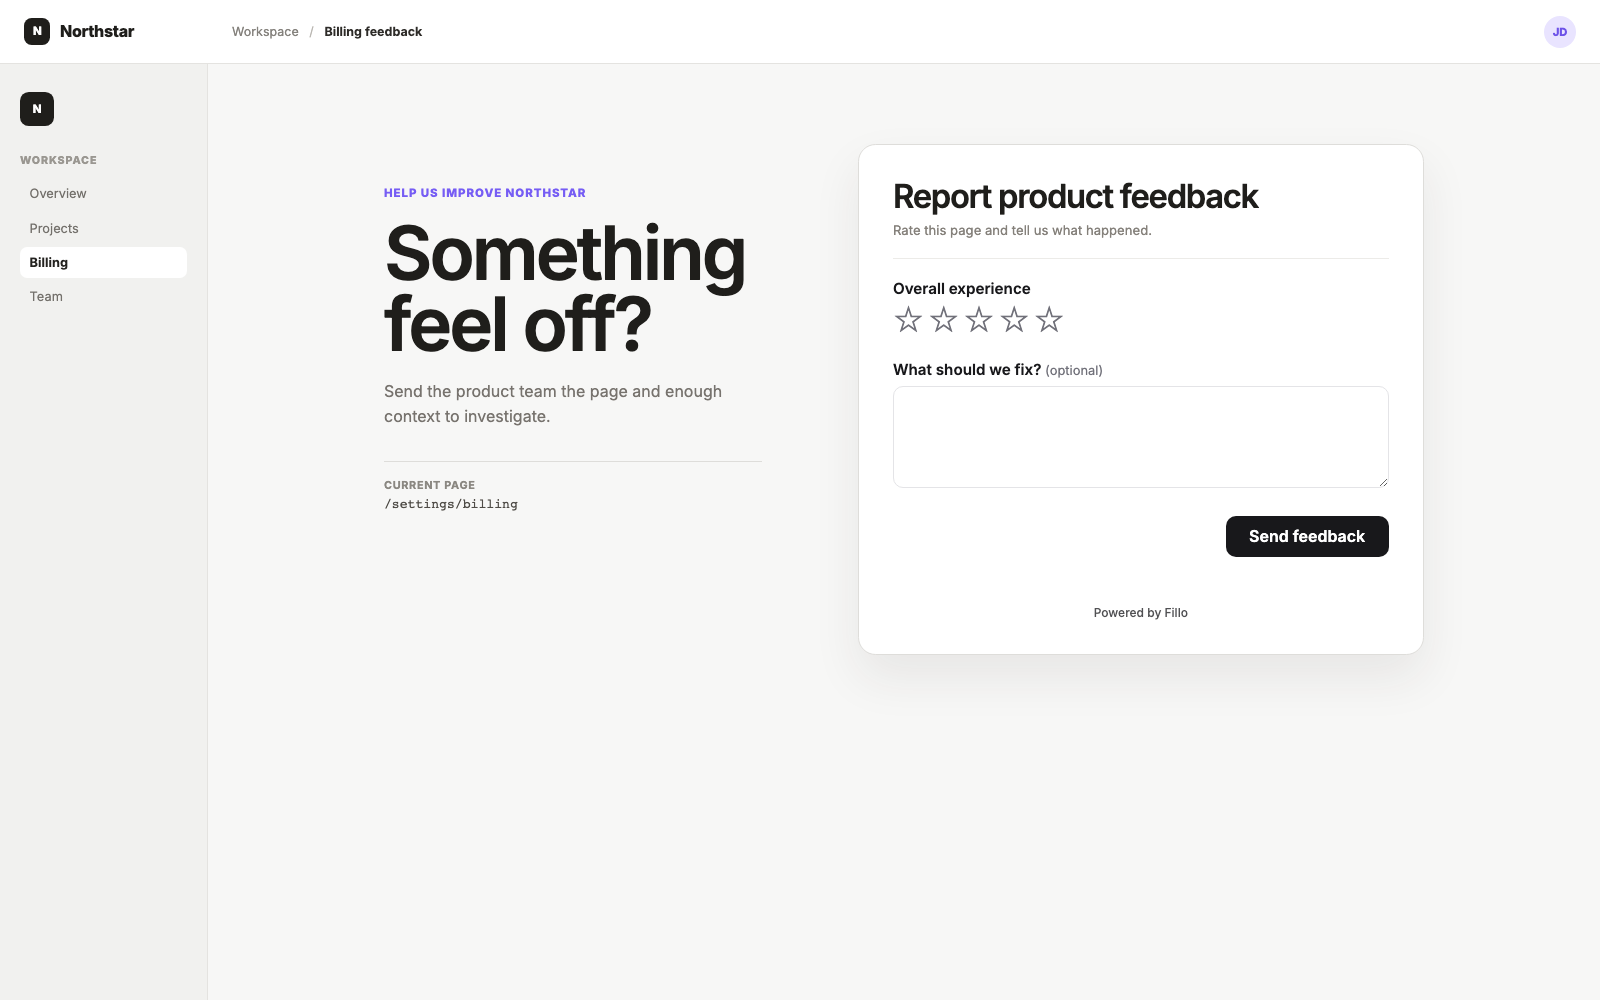
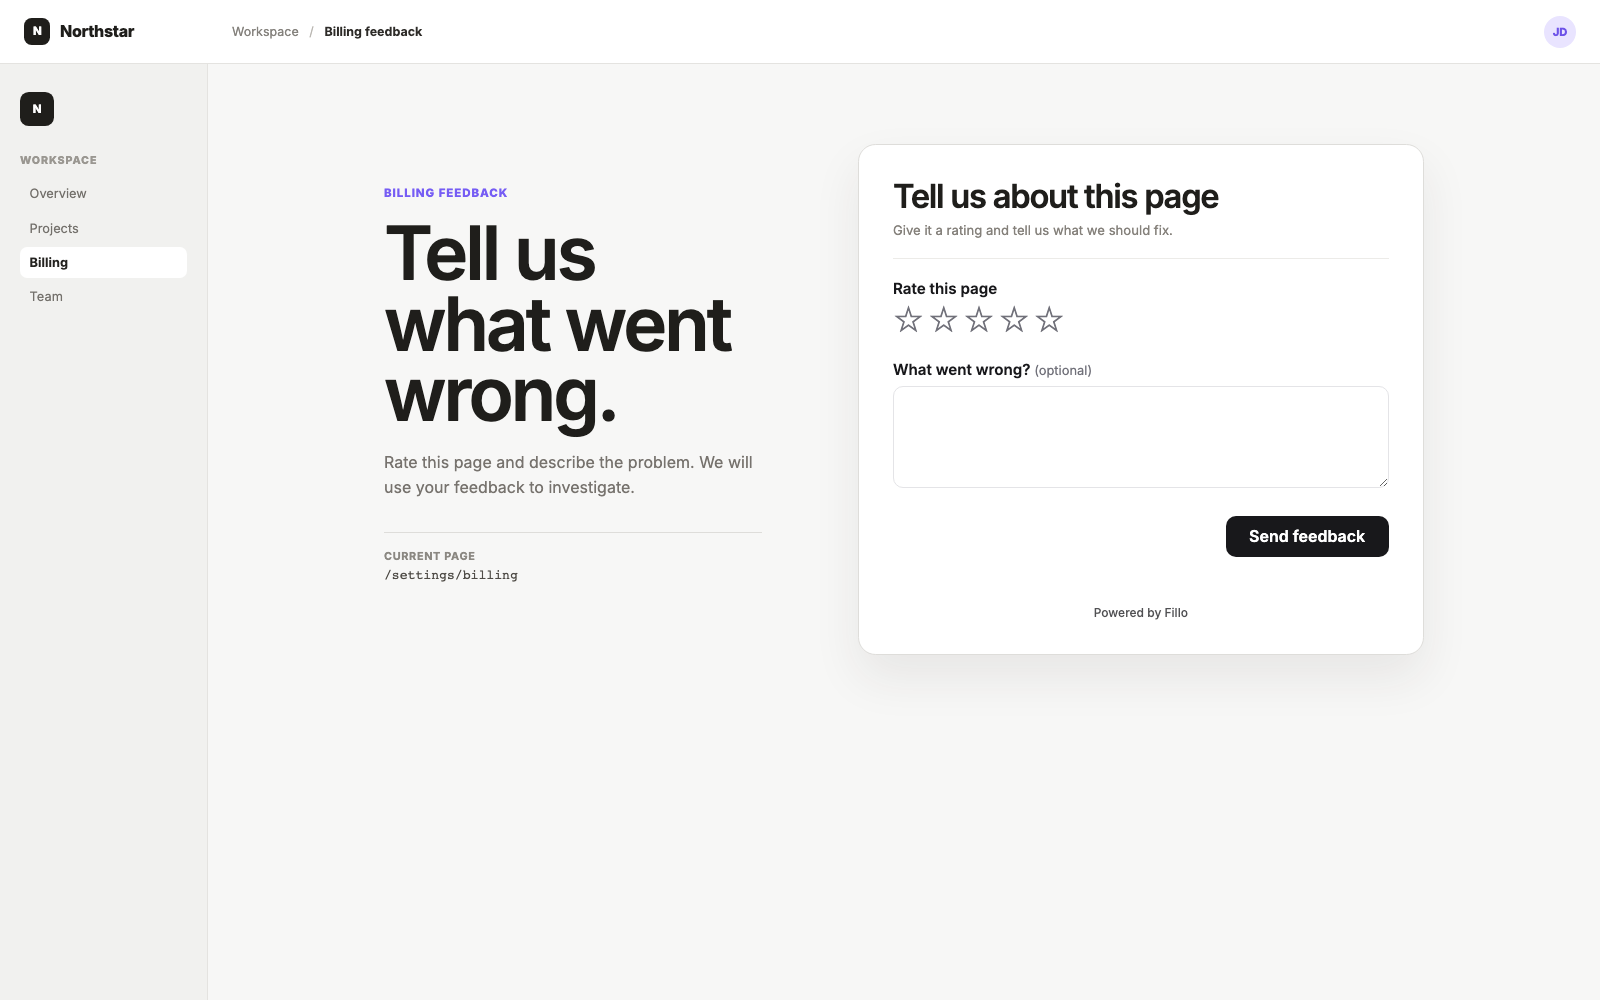
Rewrite starter copy in plain English (#2)

diff --git a/app/FeedbackCard.tsx b/app/FeedbackCard.tsx
@@ -10,8 +10,8 @@ export function FeedbackCard() {
     <section id="feedback" className="feedback-card" aria-labelledby="feedback-title">
       <div className="feedback-heading">
         <div>
-          <h2 id="feedback-title">Report product feedback</h2>
-          <p>Rate this page and tell us what happened.</p>
+          <h2 id="feedback-title">Tell us about this page</h2>
+          <p>Give it a rating and tell us what we should fix.</p>
         </div>
       </div>
 
@@ -19,7 +19,8 @@ export function FeedbackCard() {
         <aside className="setup" role="status">
           <strong>Preview mode</strong>
           <span>
-            Add <code>NEXT_PUBLIC_FILLO_KEY</code> to sync this form and collect a response.
+            Add <code>NEXT_PUBLIC_FILLO_KEY</code> to connect this form to Fillo. You can then
+            collect responses.
           </span>
         </aside>
       ) : null}
@@ -32,8 +33,8 @@ export function FeedbackCard() {
           settings={{ submitLabel: "Send feedback" }}
           showTitle={false}
         >
-          <Fillo.Rating id="score" label="Overall experience" max={5} required />
-          <Fillo.LongText id="note" label="What should we fix?" />
+          <Fillo.Rating id="score" label="Rate this page" max={5} required />
+          <Fillo.LongText id="note" label="What went wrong?" />
         </Fillo.Form>
       ) : (
         <Fillo.Form
@@ -42,9 +43,18 @@ export function FeedbackCard() {
           settings={{ submitLabel: "Send feedback" }}
           showTitle={false}
           renderOnly
+          renderSuccess={() => (
+            <div className="preview-success">
+              <span aria-hidden="true">✓</span>
+              <h3>Preview finished</h3>
+              <p>
+                We did not send or save your feedback. Add a publishable key to collect responses.
+              </p>
+            </div>
+          )}
         >
-          <Fillo.Rating id="score" label="Overall experience" max={5} required />
-          <Fillo.LongText id="note" label="What should we fix?" />
+          <Fillo.Rating id="score" label="Rate this page" max={5} required />
+          <Fillo.LongText id="note" label="What went wrong?" />
         </Fillo.Form>
       )}
     </section>

diff --git a/app/page.tsx b/app/page.tsx
@@ -13,7 +13,7 @@ export default function Page() {
         <p className="breadcrumb">
           Workspace <span>/</span> <strong>Billing feedback</strong>
         </p>
-        <span className="avatar" aria-label="Signed in as Jamie Diaz">
+        <span className="avatar" role="img" aria-label="Signed in as Jamie Diaz">
           JD
         </span>
       </header>
@@ -32,9 +32,11 @@ export default function Page() {
 
         <section className="product-route">
           <div className="product-copy">
-            <p className="eyebrow">Help us improve Northstar</p>
-            <h1>Something feel off?</h1>
-            <p>Send the product team the page and enough context to investigate.</p>
+            <p className="eyebrow">Billing feedback</p>
+            <h1>Tell us what went wrong.</h1>
+            <p>
+              Rate this page and describe the problem. We will use your feedback to investigate.
+            </p>
             <div className="page-context">
               <span>Current page</span>
               <code>/settings/billing</code>

diff --git a/app/layout.tsx b/app/layout.tsx
@@ -4,8 +4,8 @@ import type { Metadata } from "next";
 import type { ReactNode } from "react";
 
 export const metadata: Metadata = {
-  title: "Native in-app feedback · Fillo Next.js starter",
-  description: "A production-shaped in-app feedback card built with Next.js and Fillo.",
+  title: "Feedback form for Next.js · Fillo starter",
+  description: "A Next.js example that adds a two-question Fillo feedback form to a settings page.",
 };
 
 export default function RootLayout({ children }: { children: ReactNode }) {

diff --git a/README.md b/README.md
@@ -1,123 +1,118 @@
-# Native in-app feedback for Next.js
+# Feedback form for a Next.js app
 
 [![CI](https://github.com/jacobfunch/fillo-nextjs-feedback-starter/actions/workflows/ci.yml/badge.svg)](https://github.com/jacobfunch/fillo-nextjs-feedback-starter/actions/workflows/ci.yml)
 
-A small, production-shaped App Router example. The settings page belongs to the
-host product; Fillo supplies the native form controls, shared schema, validation,
-and accepted response.
+Use this starter to add a feedback form to a Next.js App Router page. The app
+controls the page and styles. Fillo handles the form schema, validation and
+responses.
 
-[Read the implementation guide](https://fillo.so/guides/nextjs-in-app-feedback-form) ·
+[Read the setup guide](https://fillo.so/guides/nextjs-in-app-feedback-form) ·
 [React SDK](https://www.npmjs.com/package/@usefillo/react) ·
 [Fillo docs](https://fillo.so/docs)
 
-![Billing settings page with an inline Fillo feedback card](docs/preview-desktop.png)
+![Billing settings page with a Fillo feedback form](docs/preview-desktop.png)
 
 <details>
 <summary>View the mobile layout</summary>
 <br />
-<img src="docs/preview-mobile.png" alt="The same native feedback card on a mobile viewport" width="390" />
+<img src="docs/preview-mobile.png" alt="Feedback form on a mobile screen" width="390" />
 </details>
 
-## What this starter proves
-
-- Fillo renders real React controls inside an ordinary product route—no iframe.
-- The form schema lives beside the UI as typed `<Fillo.Form>` JSX.
-- A missing key opens a safe, non-submitting preview instead of a blank setup screen.
-- A publishable `pk_` key can sync the code-defined form when workspace policy allows it.
-- Private workspace, identity, and webhook secrets never enter the client bundle.
-
-The whole example is intentionally small: one route, one form component, and one stylesheet.
-
-## See the UI first
-
-You do not need a Fillo account to inspect the native layout:
+## Run the preview
 
 ```bash
 npm install
 npm run dev
 ```
 
-Open [http://localhost:3000](http://localhost:3000). Without an environment key,
-the page labels itself **Preview mode** and disables submission. That state is
-deliberate; it lets you review and style the UI without creating remote data.
+Open [http://localhost:3000](http://localhost:3000). You do not need a Fillo
+account. Without a key, the page shows **Preview mode**. You can fill in the
+fields and see the success message. The preview does not send or save a
+response.
 
-## Collect the first real response
+## What you get
+
+- One App Router page and one form component.
+- A typed form schema written with `<Fillo.Form>` JSX.
+- React form controls in the page. There is no iframe.
+- A local preview that works before you add a key.
+- A build check for each pull request.
+
+## Connect the form to Fillo
 
 1. Create or open a workspace at [fillo.so](https://fillo.so).
-2. Copy `.env.example` to `.env.local` and set `NEXT_PUBLIC_FILLO_KEY` to the
-   workspace's public `pk_` key.
-3. Add `http://localhost:3000` to the workspace's allowed origins.
-4. Restart the dev server. Open the page once to sync `nextjs-settings-feedback`.
-5. Review and publish the staged form in Fillo.
-6. Trigger the required-rating error, then submit one safe test response.
-7. Confirm the rating, note, source, and delivery state in the response workspace.
+2. Copy `.env.example` to `.env.local`.
+3. Set `NEXT_PUBLIC_FILLO_KEY` to the workspace's public `pk_` key.
+4. Add `http://localhost:3000` to the workspace's allowed origins.
+5. Restart the development server and open the page. This syncs
+   `nextjs-settings-feedback`.
+6. Review and publish the form in Fillo.
+7. Submit one test response.
+8. Find the rating, note and delivery state in Fillo.
 
-Published forms can be fetched and submitted by form ID without a publishable key.
-This starter keeps the key because its schema is owned in code and needs to sync.
+This example keeps the public key because the form schema lives in the code and
+must sync with Fillo. A published form can load and accept responses by form ID.
 
-## Hand it to a coding agent
+## Change the example
 
-This repository includes [AGENTS.md](AGENTS.md) with the local architecture,
-stable IDs, security boundaries, and verification checklist.
+You can change the headings, help text, colours and position. Keep these IDs
+after you collect the first response:
 
-For the complete Fillo workflow, connect your existing account and install the
-project skill from the repository root:
+- form: `nextjs-settings-feedback`;
+- fields: `score`, `note`.
+
+Fillo uses the field IDs as stored answer keys. Keep field conditions in the
+schema. Create respondent HMACs in server-only code. Never expose the identity
+secret through a `NEXT_PUBLIC_` variable.
+
+Use `onSubmitted` for changes on this page after submit. Use a signed webhook if
+your backend must act on each response.
+
+## Use a coding agent
+
+[AGENTS.md](AGENTS.md) lists the files, IDs and checks for this repository.
+
+Connect an existing Fillo workspace and install the Fillo skill:
 
 ```bash
 npx @usefillo/cli@latest login
 npx @usefillo/cli@latest skill install
 ```
 
-No workspace yet? Replace the login command with:
+If you do not have a workspace, run:
 
 ```bash
 npx @usefillo/cli@latest agent bootstrap --email you@company.com
 ```
 
-Then give your agent a concrete task:
+Then give the agent a specific task:
 
-> Use the build-with-fillo skill. Adapt this feedback card to the signed-in
-> settings route in this repository. Keep the host layout, keep the stable
-> `score` and `note` field IDs, add verified respondent identity only if the app
-> already has a server-side user ID, run the production build, and tell me the
-> exact publish and test steps that remain.
+> Use the build-with-fillo skill. Add this feedback form to our signed-in
+> settings page. Keep the current page design and the `score` and `note` field
+> IDs. Only add verified respondent identity if the app has a server-side user
+> ID. Run the production build. List the steps I must complete in Fillo.
 
-The skill works with Codex, Cursor, GitHub Copilot, Gemini CLI, Claude Code, and
-other compatible coding agents. See [Fillo's agent setup](https://fillo.so/agents)
-for installation paths and MCP options.
+The skill supports Codex, Cursor, GitHub Copilot, Gemini CLI, Claude Code and
+other compatible agents. [Read the agent setup guide](https://fillo.so/agents).
 
-## Repository map
+## Check before production
 
-| Path | Responsibility |
-| --- | --- |
-| `app/page.tsx` | Product-owned settings route and surrounding layout |
-| `app/FeedbackCard.tsx` | Code-defined Fillo schema, preview fallback, and embed |
-| `app/styles.css` | Host-product layout plus local Fillo overrides |
-| `app/layout.tsx` | Global Fillo stylesheet and page metadata |
-| `AGENTS.md` | Instructions and acceptance checks for coding agents |
-| `.github/workflows/ci.yml` | Clean-install and production-build check for every pull request |
-
-## Customize without breaking the data contract
-
-- Change headings, helper copy, colors, and placement freely.
-- Treat `nextjs-settings-feedback`, `score`, and `note` as stored-data IDs after launch.
-- Keep conditional behavior in the schema instead of conditionally adding fields in React.
-- Compute respondent HMACs on the server; never expose the identity secret through `NEXT_PUBLIC_`.
-- Use `onSubmitted` for local UI follow-up and a signed webhook for durable backend delivery.
-
-## Production check
+Run:
 
 ```bash
 npm run build
 ```
 
-Then inspect desktop and mobile layouts, keyboard focus, required-field errors,
-the success state, and the accepted response in Fillo. Rendering the form is not
-proof that the response workflow is complete.
+Then complete these checks:
 
-## Learn the boundaries
+1. Leave the rating empty and check the error.
+2. Use the form with a keyboard and on a phone.
+3. Check the success message.
+4. Submit a response and find it in Fillo.
 
-- [Next.js feedback guide](https://fillo.so/guides/nextjs-in-app-feedback-form)
-- [Native form request lifecycle](https://fillo.so/guides/native-form-request-lifecycle)
+## More help
+
+- [Next.js feedback setup guide](https://fillo.so/guides/nextjs-in-app-feedback-form)
+- [How Fillo handles a form request](https://fillo.so/guides/native-form-request-lifecycle)
 - [Respondent identity](https://fillo.so/docs/respondents)
-- [Styling the React renderer](https://fillo.so/docs/styling)
+- [Style the React form](https://fillo.so/docs/styling)

diff --git a/AGENTS.md b/AGENTS.md
@@ -1,67 +1,71 @@
 # AGENTS.md
 
-This is a deliberately small Next.js App Router starter for a product-native
-Fillo feedback form. Keep it understandable in one sitting.
+This repository contains a small feedback form for the Next.js App Router. Keep
+the example small enough to understand in one sitting.
 
-## Goal
+## Purpose
 
-The host application owns the settings route, layout, styling, account context,
-and after-submit behavior. Fillo owns the form schema, validation, accepted
-response, versions, exports, and delivery workflow.
+The app controls the settings page, session, layout, styles and success state.
+Fillo controls the form schema, validation, responses, versions, exports and
+delivery.
 
-## Start here
+## Start
 
-1. Read `README.md` and inspect `app/FeedbackCard.tsx`.
-2. Run `npm install`, `npm run build`, and then `npm run dev`.
-3. Without a key, verify that the page renders the labeled non-submitting preview.
-4. For a Fillo task, run `npx @usefillo/cli@latest skill install` and use the
-   installed `build-with-fillo` skill.
+1. Read `README.md`.
+2. Read `app/FeedbackCard.tsx`.
+3. Run `npm install`.
+4. Run `npm run build`.
+5. Run `npm run dev`.
+6. Remove the Fillo key and check Preview mode.
+7. For Fillo work, run `npx @usefillo/cli@latest skill install`.
+8. Follow the installed `build-with-fillo` skill.
 
-## Repository map
+## Files
 
-- `app/page.tsx`: product-owned settings surface.
-- `app/FeedbackCard.tsx`: code-defined form and preview/connected states.
-- `app/styles.css`: host UI and scoped renderer styling.
-- `app/layout.tsx`: global SDK stylesheet and metadata.
+- `app/page.tsx`: settings page and product layout.
+- `app/FeedbackCard.tsx`: form schema and connected or preview state.
+- `app/styles.css`: page styles and Fillo form styles.
+- `app/layout.tsx`: global Fillo stylesheet and page metadata.
 
-## Stable contract
+## IDs to keep
 
 - Form ID: `nextjs-settings-feedback`
 - Rating field ID: `score`
 - Note field ID: `note`
 
-Once real responses exist, preserve those IDs. Labels and helper copy may change
-without changing stored answer keys.
+Keep these IDs after the first response. Fillo uses the field IDs as stored
+answer keys. You can change labels and help text.
 
-## Guardrails
+## Rules
 
-- Keep the form inside the product route; do not replace it with an iframe or a
-  separate survey page.
-- Keep the preview fallback. A clone should show the form without making a
-  network request or accepting a response.
-- Never put an `fsk_` key, identity secret, webhook secret, login token, or
+- Keep the form in the product page. Do not replace it with an iframe or another
+  survey page.
+- Keep Preview mode. It must show the form without sending a response.
+- Do not put an `fsk_` key, identity secret, webhook secret, login token or
   storage credential in browser code or committed files.
-- Use only a public `pk_` key for code-schema sync. Published form reads and
-  submissions do not use that key as response authentication.
-- Compute verified respondent hashes in server-only code.
-- Keep field conditions in the schema. Do not change schema shape per visitor.
-- Use the default accessible controls unless the task explicitly requires a
-  custom renderer. Preserve labels, errors, focus, and keyboard behavior.
-- Do not add analytics, a state library, or a second form backend to this starter.
+- Use only a public `pk_` key to sync the form schema. A published form does not
+  use this key to accept a response.
+- Create verified respondent hashes in server-only code.
+- Put field conditions in the form schema. Do not change the schema for each
+  visitor.
+- Use the default accessible controls unless the task requires a custom
+  renderer. Keep labels, errors, focus and keyboard controls accessible.
+- Do not add analytics, a state library or another form backend.
 
-## Verification
+## Checks
 
 - `npm run build` passes.
-- The no-key page shows `Preview mode` and a visible Fillo form.
-- Desktop and mobile layouts do not overflow.
-- With a configured key, the form stages or resolves successfully according to
-  workspace sync policy.
-- The required rating exposes an accessible error.
-- One authorized test submission appears in the Fillo response workspace before
-  claiming the integration is complete.
+- Preview mode shows the form and does not send a response.
+- The desktop and mobile pages do not overflow.
+- With a key, Fillo stages or loads the form according to the workspace sync
+  setting.
+- An empty rating shows an accessible error.
+- Submit one authorised test response. Find it in Fillo before you report that
+  the form works.
 
-When handing work back, state the build result and the exact remaining dashboard
-action: connect, publish, or verify a response. Never report private workspace URLs.
+When you finish, report the build result. State the next action in Fillo:
+connect the form, publish it or check the response. Do not report private
+workspace URLs.
 
 <!-- BEGIN:nextjs-agent-rules -->
 
